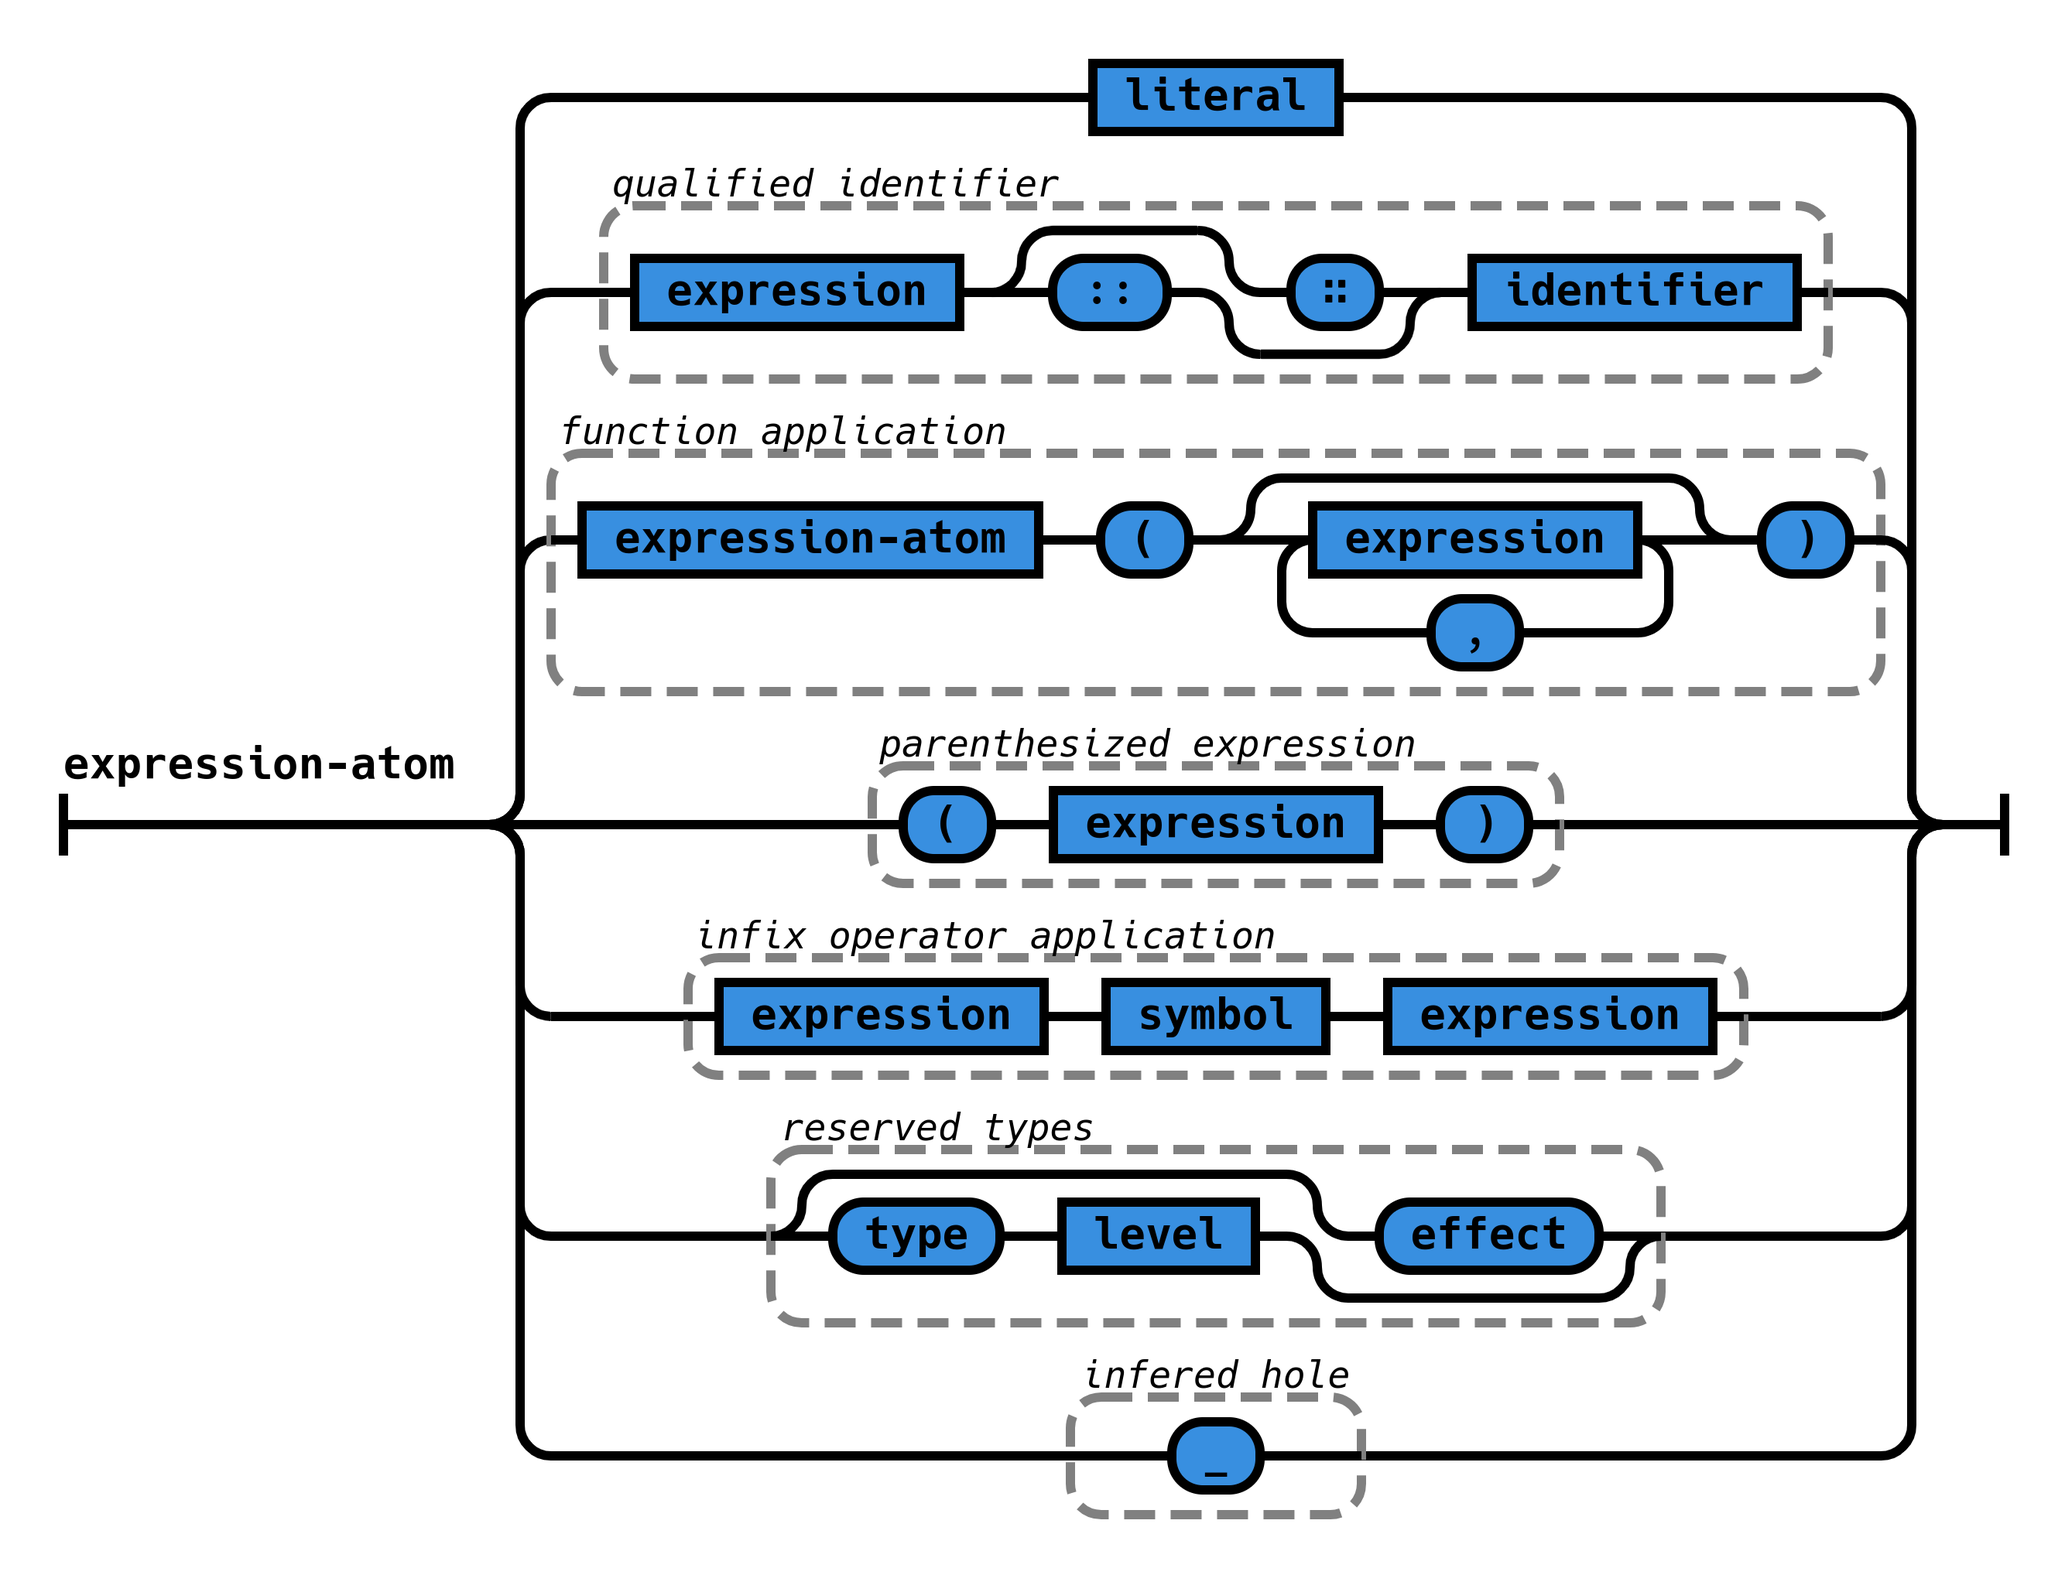
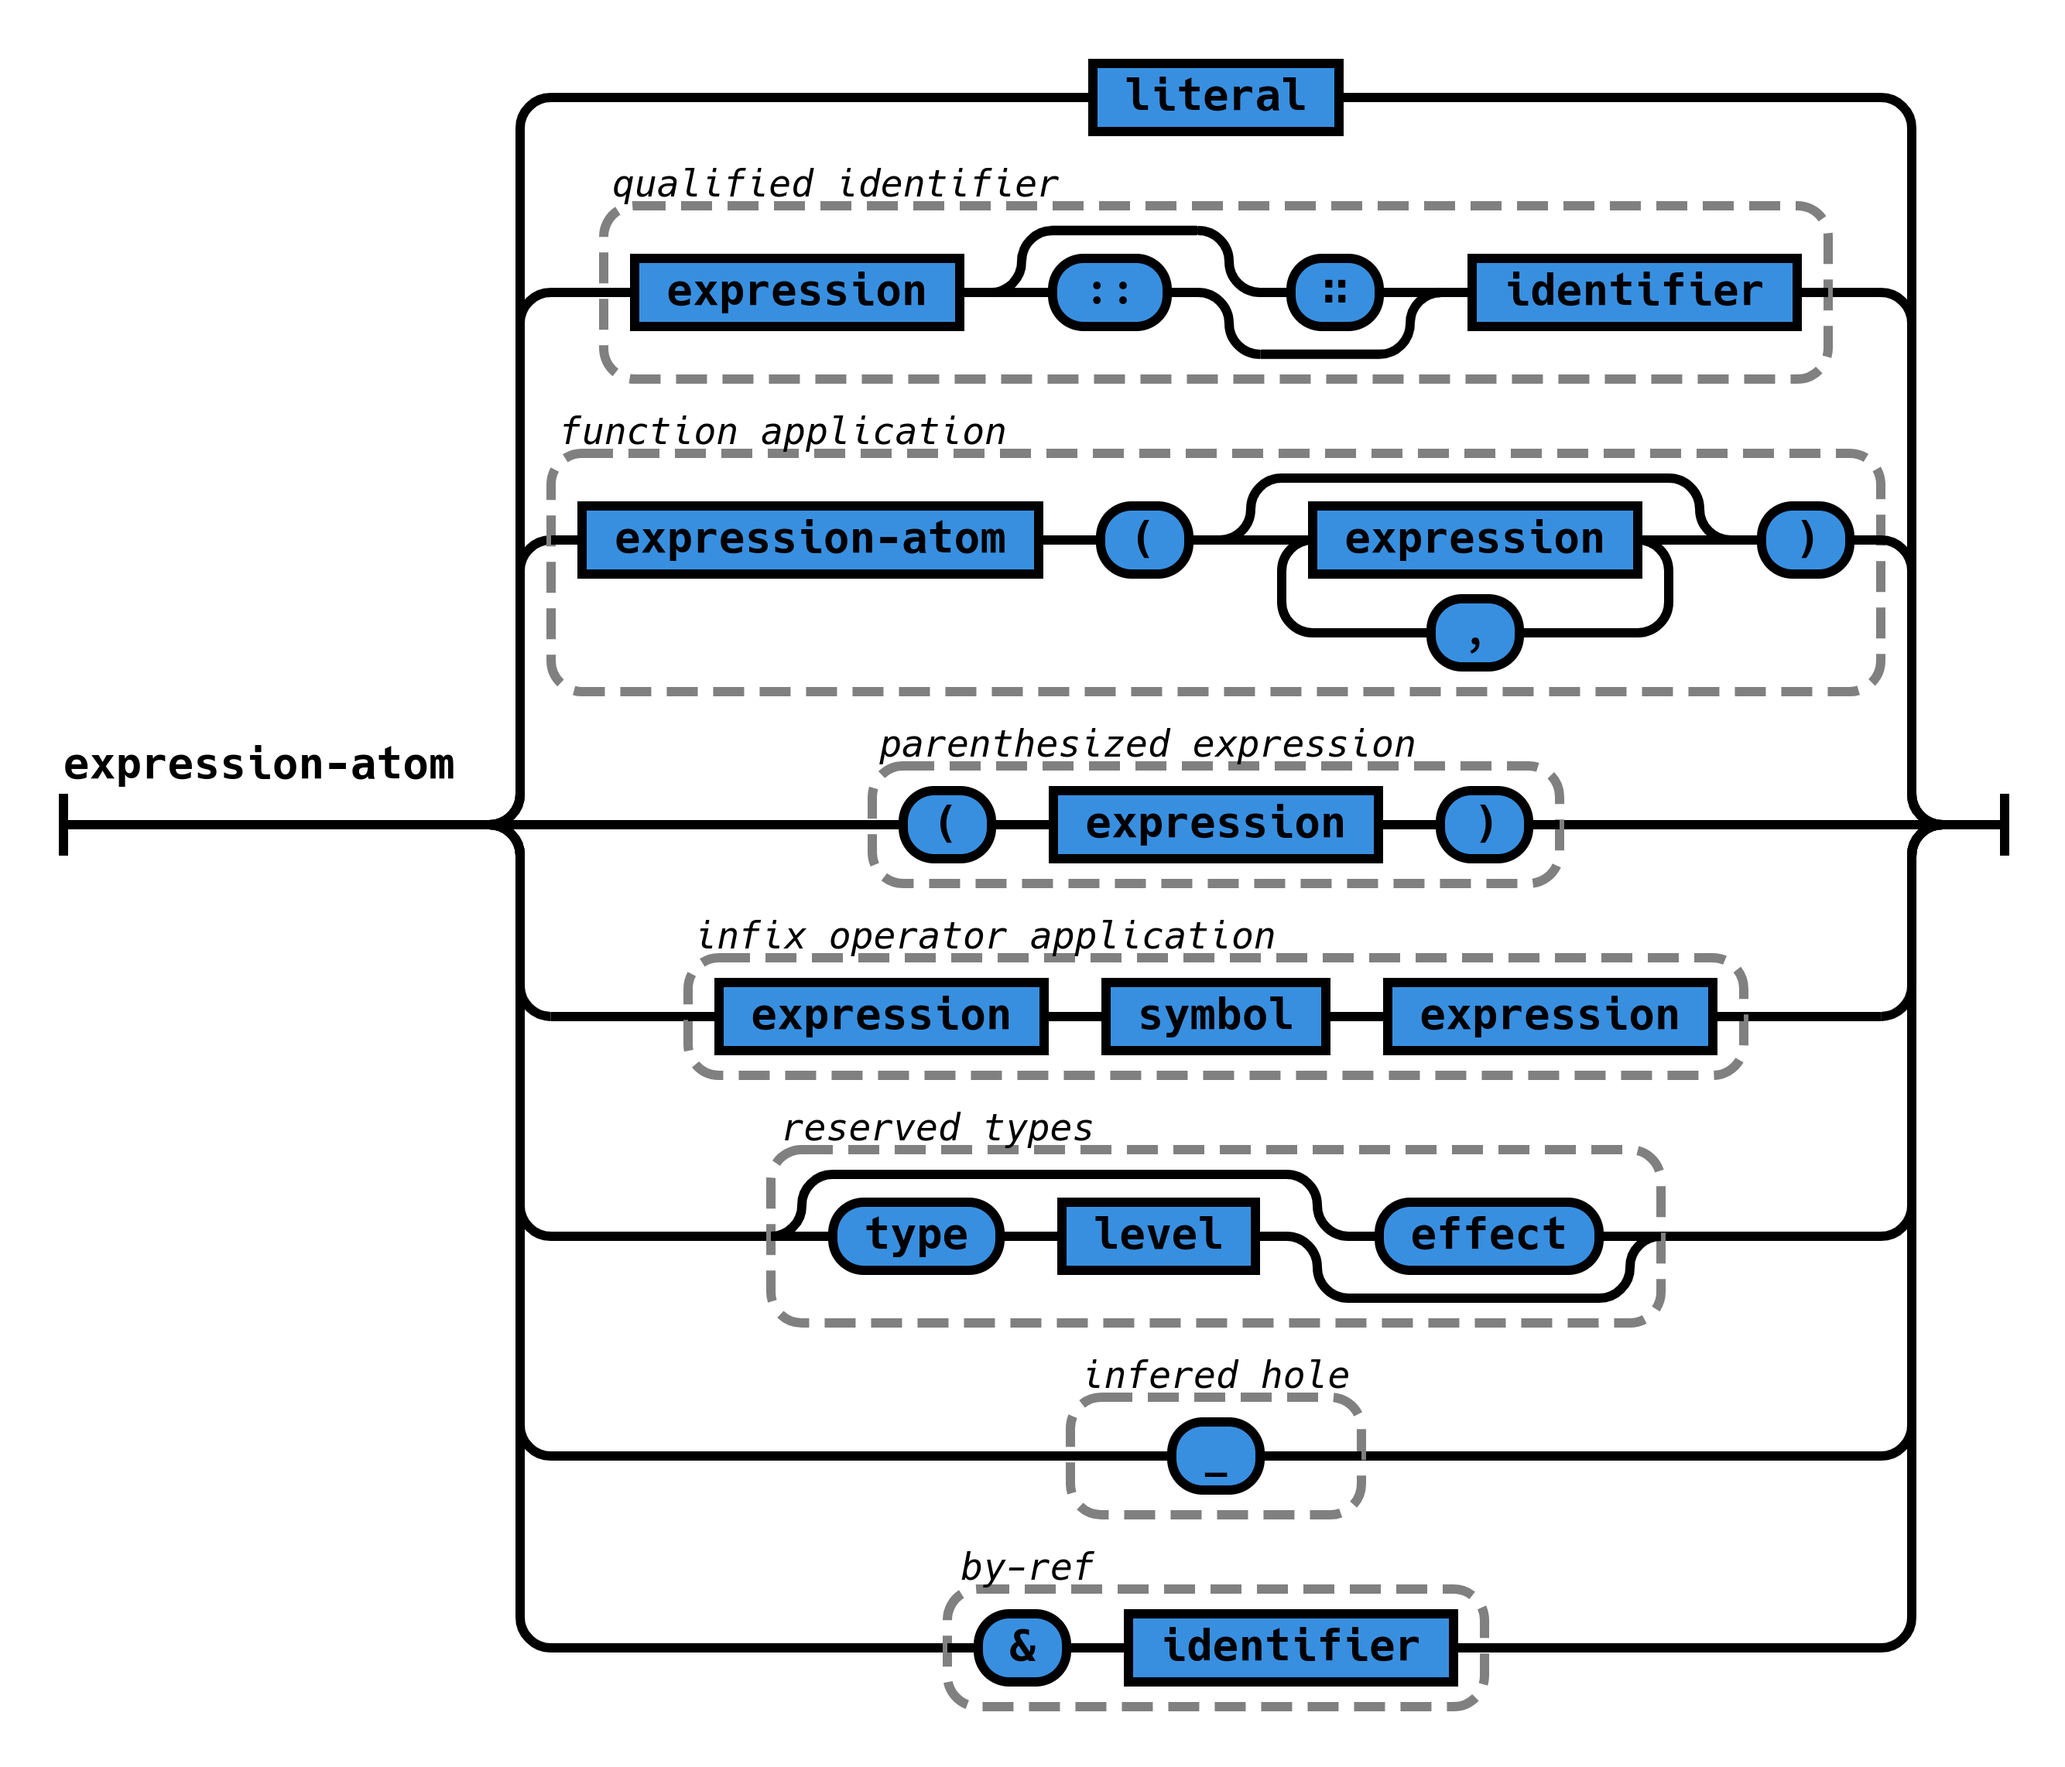
add grammar for multiplicative and additive pairs

Changed region(s): [[0.0311, 0.0309, 0.9955, 0.9902]]

diff --git a/part1-zilch.tex b/part1-zilch.tex
@@ -362,6 +362,71 @@ Record literals allow constructing records in the same fashion as in e.g.\ C.
 	\label{fig:zilch-grammar-expressions-atom-grammar}
 \end{figure}
 
+The by-ref operator \texttt{\&id} is only allowed if it appears within the top-most application in a \texttt{let} local binding.
+For example, these uses of the by-ref operator are valid:
+\begin{listing}[H]
+	\inputminted{\zilchlexer}{examples/correct-byref.zc}
+
+	\captionsetup{style=invisible}
+	\caption{Correct usage of by-ref operator.}
+\end{listing}
+\vspace*{-\baselineskip}
+
+Hoewver, these uses are invalid:
+\begin{listing}[H]
+	\inputminted{\zilchlexer}{examples/incorrect-byref.zc}
+
+	\captionsetup{style=invisible}
+	\caption{Incorrect usage of by-ref operator.}
+\end{listing}
+\vspace*{-\baselineskip}
+In \texttt{test2}, the by-ref operator is in fact used in the application of \texttt{+} (recall that \texttt{a + b} is \texttt{\_+\_(a, b)}), which is not the top-most application in this local binding.
+
+\subsection{Additive and multiplicative pairs}\label{subsec:zilch-grammar-expressions-pairs}
+
+Pairs are separated into two distinct types, following LTT\footnote{Linear Type Theory}, to encode whether the two elements must be used or if only one is expected to be consumed.
+It is possible to consume a single element from an additive pair, while all the elements must be consumed in a multiplicative pair.
+
+\begin{figure}[H]
+	\centering
+
+	\framebox[\textwidth][c]{
+		\parbox{\textwidth}{
+			\centering
+
+			\scalebox{.5}{
+				\includegraphics[width=\linewidth]{zilch/expression/pair-mult-intro}
+			}\\
+			\scalebox{.8}{
+				\includegraphics[width=\linewidth]{zilch/expression/pair-mult-elim}
+			}
+		}
+	}
+
+	\caption{Grammar for multiplicative pairs and eliminator.}
+	\label{fig:zilch-grammar-expressions-pairs-mult-grammar}
+\end{figure}
+
+\begin{figure}[H]
+	\centering
+
+	\framebox[\textwidth][c]{
+		\parbox{\textwidth}{
+			\centering
+
+			\scalebox{.5}{
+				\includegraphics[width=\linewidth]{zilch/expression/pair-add-intro}
+			}\\
+			\scalebox{.6}{
+				\includegraphics[width=\linewidth]{zilch/expression/pair-add-elim}
+			}
+		}
+	}
+
+	\caption{Grammar for additive pairs and eliminator.}
+	\label{fig:zilch-grammar-expressions-pairs-add-grammar}
+\end{figure}
+
 \section{Types}\label{sec:zilch-grammar-types}
 
 Types lie at the same level as expressions, but are put in a separate section for comprehensiveness sake.
@@ -445,7 +510,7 @@ An expression \verb|e| is said to be of type \verb|t| if evaluating it yields (o
 \section{Declarations}\label{sec:zilch-grammar-declarations}
 
 A Zilch module is composed of zero or more declarations.
-There are 3 possible declarations:
+There are 4 possible declarations:
 \begin{itemize}
 	\item New type definition;
 	\item Effect definition;
@@ -565,6 +630,12 @@ And some other times, using a specific type is not semantically clear enough.
 For example, what does a \texttt{u64} mean as input to a function?
 Zilch allows defining type aliases to address this issue, leading to code more clear.
 
+When using the Foreign Function Interface (FFI), we may also want to interface with types.
+However, types do not necessarily exist in the FFI, so they cannot be dynamically checked.
+Moreover, some types usually defined in C (such as \texttt{FILE}) are very much implementation dependent, and it is not a good idea to rewrite them in Zilch.
+In such cases, we can define \texttt{opaque} erased types (and only erased types, functions cannot be \texttt{opaque}) which can only be passed around behind pointers\footnote{Because the size of the type is unknown at compile-time, it is not possible to statically allocate enough memory on the stack to pass opaque data for function calls. However, if they are necessarily found behind pointers, we can just allocate the size of the pointer onto the stack.}.
+An opaque type is of an unknown size which is guaranteed to be greater than 0.
+
 \begin{figure}[H]
 	\centering
 
@@ -596,14 +667,14 @@ Top-level bindings can refer to other top-level bindings as long as these are de
 However, sometimes it is useful to define a few functions or data types which are mutually recursive.
 For example, consider the following definitions for the two functions \texttt{even} and \texttt{odd} which return \texttt{true} if the number is even (resp. odd):
 \begin{align*}
-	even(n) & = \begin{cases*}
-		            \mathrm{true} & iff $n = 0$ \\
-		            odd(n - 1)    & otherwise
-	            \end{cases*}  \\
-	odd(n)  & = \begin{cases*}
-		            \mathrm{false} & iff $n = 0$ \\
-		            even(n - 1)    & otherwise
-	            \end{cases*}
+	\operatorname{even}(n) & = \begin{cases*}
+		                           \mathrm{true}             & iff $n = 0$ \\
+		                           \operatorname{odd}(n - 1) & otherwise
+	                           \end{cases*}  \\
+	\operatorname{odd}(n)  & = \begin{cases*}
+		                           \mathrm{false}             & iff $n = 0$ \\
+		                           \operatorname{even}(n - 1) & otherwise
+	                           \end{cases*}
 \end{align*}
 
 This can be modeled in Zilch as:
@@ -629,7 +700,7 @@ This would be done as follows:
 	\centering
 
 	\framebox[\textwidth][c]{
-		\scalebox{.95}{
+		\scalebox{.8}{
 			\includegraphics[width=\linewidth]{zilch/toplevel/function-declaration}
 		}
 	}

diff --git a/railroad-diagrams.py b/railroad-diagrams.py
@@ -519,7 +519,9 @@ def zilch_special():
                      Terminal('->'), Terminal('→')),
     HorizontalChoice(Terminal('--'), Terminal('/-'), Terminal('-/'),
                      Terminal('/--'), Terminal('_'), Terminal('·'),
-                     Terminal('?'), Terminal('=>'), Terminal('⇒')))
+                     Terminal('=>'), Terminal('⇒')),
+    HorizontalChoice(Terminal('⊗'), Terminal('×'), Terminal('&'),
+                     Terminal('⟨'), Terminal('⟩')))
 
   return mk_diagram2('special', inner)
 
@@ -710,7 +712,8 @@ def zilch_expression_atom():
     Group(
       HorizontalChoice(Sequence(Terminal('type'), NonTerminal('level')),
                        Terminal('effect')), 'reserved types'),
-    Group(Terminal('_'), 'infered hole'))
+    Group(Terminal('_'), 'infered hole'),
+    Group(Sequence(Terminal('&'), NonTerminal('identifier')), 'by-ref'))
 
   return mk_diagram2('expression-atom', inner)
 
@@ -818,13 +821,15 @@ def zilch_toplevel_function_definition():
 
 
 def zilch_function_declaration():
-  inner = Sequence(
-    Terminal('val'), Optional(NonTerminal('usage')), NonTerminal('identifier'),
-    ZeroOrMore(
-      Choice(1, NonTerminal('explicit-parameter\''),
-             NonTerminal('implicit-parameter\''),
-             NonTerminal('instance-parameter\''))), Terminal(':'),
-    NonTerminal('expression'))
+  inner = Stack(
+    Sequence(Optional('opaque'), Terminal('val'),
+             Optional(NonTerminal('usage')), NonTerminal('identifier')),
+    Sequence(
+      ZeroOrMore(
+        Choice(1, NonTerminal('explicit-parameter\''),
+               NonTerminal('implicit-parameter\''),
+               NonTerminal('instance-parameter\''))), Terminal(':'),
+      NonTerminal('expression')))
 
   return mk_diagram2('function-declaration', inner)
 
@@ -927,4 +932,42 @@ def zilch_type_level():
   return mk_diagram2('level', inner)
 
 
-zilch_type_level().writeSvg(sys.stdout.write)
+def zilch_mult_product_intro():
+  inner = Sequence(Terminal('('),
+                   OneOrMore(NonTerminal('expression'), Terminal(',')),
+                   Terminal(')'))
+
+  return mk_diagram2('mult-product-intro', inner)
+
+
+def zilch_add_product_intro():
+  body = OneOrMore(NonTerminal('expression'), Terminal(','))
+
+  inner = Choice(1, Sequence(Terminal('<'), body, Terminal('>')),
+                 Sequence(Terminal('⟨'), body, Terminal('⟩')))
+
+  return mk_diagram2('add-product-intro', inner)
+
+
+def zilch_add_product_elim():
+  inner = Sequence(NonTerminal('expression'),
+                   HorizontalChoice(Terminal('::'), Terminal('∷')),
+                   NonTerminal('integer'))
+
+  return mk_diagram2('add-product-elim', inner)
+
+
+def zilch_mult_product_elim():
+  inner = Stack(
+    Sequence(Terminal('let'), Terminal('('),
+             OneOrMore(NonTerminal('identifier'), Terminal(',')),
+             Terminal(')'),
+             Optional(Sequence(Terminal('as'), NonTerminal('identifier')))),
+    Sequence(Choice(0, Terminal(':='), Terminal('≔')),
+             NonTerminal('expression'), NonTerminal(';'),
+             NonTerminal('expression')))
+
+  return mk_diagram2('mult-product-elim', inner)
+
+
+zilch_mult_product_elim().writeSvg(sys.stdout.write)

diff --git a/lexer/zilch.py b/lexer/zilch.py
@@ -39,7 +39,9 @@ class ZilchLexer(ExtendedRegexLexer):
         'operators': [
             (r'(\:\=|≔|=>|⇒)', Operator),
 
-            (r'(\(|\)|\:|\{|\})|,|_', Punctuation)
+            (r'(\(|\)|\:|\{|\})|,|_', Punctuation),
+
+            (r'(&)(\S*)', bygroups(Keyword.Reserved, Text))
         ],
         'meta-specifier': [
             (r'#attributes\(.*?\)', Comment.Preproc)

diff --git a/namespaces.tex b/namespaces.tex
@@ -202,5 +202,5 @@
 \newcommand*\Ewith[2]{\ensuremath{\mathsf{\Ifmt with}\ {#1}\mathrel{\mathsf{\Ifmt ;}}{#2}}}
 \newcommand*\Eresume{\ensuremath{\mathsf{\Ifmt resume}}}
 \newcommand*\Ederef[1]{\ensuremath{{}^\mathsf{\Ifmt \ast}{#1}}}
-\newcommand*\Emkptr[1]{\ensuremath{\mathsf{\Ifmt \&}{#1}}}
+\newcommand*\Emkptr[1]{\ensuremath{\mathsf{\Ifmt !}{#1}}}
 }{}
